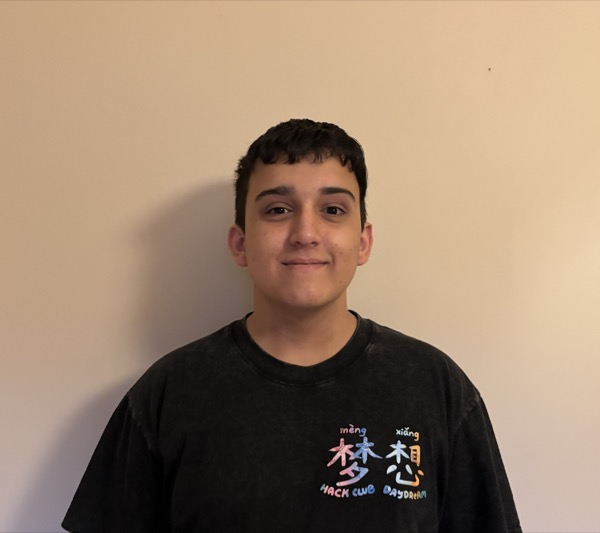
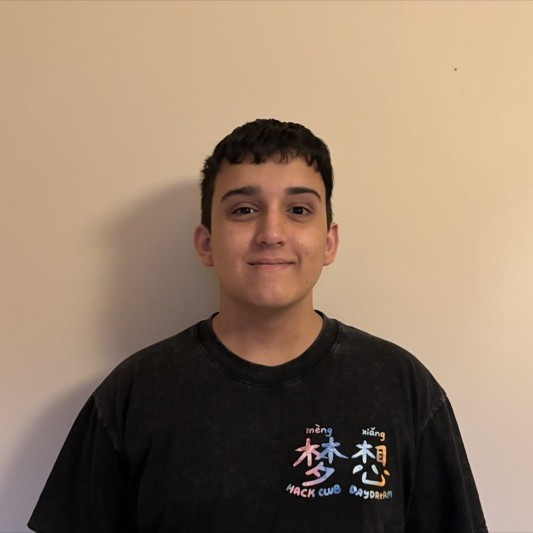
Add Kiera to team section and make all photos same size and ratio

diff --git a/src/App/App.jsx b/src/App/App.jsx
@@ -1,27 +1,33 @@
 import "./App.css";
+import Navbar from "../Navbar/Navbar";
+//Branding
 import Logo from "../assets/kiwihackslogo.png";
+import LogoText from "../assets/kiwihackstext.png";
+//Team Images
 import NikoImage from "../assets/People/niko.jpg";
 import JoshImage from "../assets/People/josh.jpg";
 import KyleImage from "../assets/People/kyle.jpg";
 import AudreyImage from "../assets/People/audrey.jpg";
 import ChristieImage from "../assets/People/christie.jpg";
 import MaggieImage from "../assets/People/maggie.jpg";
-import LogoText from "../assets/kiwihackstext.png";
+import SebastianImage from "../assets/People/sebastian.jpg";
+import KieraImage from "../assets/People/kiera.jpg";
+//Decorative Images
 import ExampleImage from "../assets/example.png";
 import SignatureImage from "../assets/signatures.png";
 import PolaroidImage1 from "../assets/polaroid1.png";
 import PolaroidImage2 from "../assets/polaroid2.png";
 import StarsImage from "../assets/stars.png";
 import TapeImage from "../assets/tape.png";
-import CampfireImage from "../assets/campfire.png";
+//Sponsors
 import ExtraordinaryLogo from "../assets/Sponsors/extraordinary-logo.svg";
 import CanvaLogo from "../assets/Sponsors/canva-logo.svg";
 import ElevenLabsLogo from "../assets/Sponsors/elevenlabs-logo-black.svg";
 import xyzLogo from "../assets/Sponsors/xyz-white-logo.svg";
 import HackClubLogo from "../assets/Sponsors/hackclub-logo.svg";
-import SebastianImage from "../assets/People/sebastian.jpg";
+//React being react
 import { useEffect } from "react";
-import Navbar from "../Navbar/Navbar";
+
 
 
 export default function App() {
@@ -444,6 +450,18 @@ export default function App() {
               social media and advertising for KiwiHacks. I’m excited to help
               spread the word about KiwiHacks to make it a super fun event for
               everyone!
+            </p>
+          </div>
+
+          <div className="team-member-div">
+            <img src={KieraImage} alt="Kiera Langridge" loading="lazy" />
+            <h2>Kiera Langridge</h2>
+            <p><a href="mailto:kiera.langridge@gmail.com">kiera.langridge@gmail.com</a></p>
+            <p>
+              I’m a 16 year old student from Baradene College helping out with outreach and branding. 
+              I’m passionate about learning, writing, and coding awesome projects. 
+              I can’t wait to see what people create at KiwiHacks, 
+              and I’m so excited to help bring the event to life!
             </p>
           </div>
         </div>
